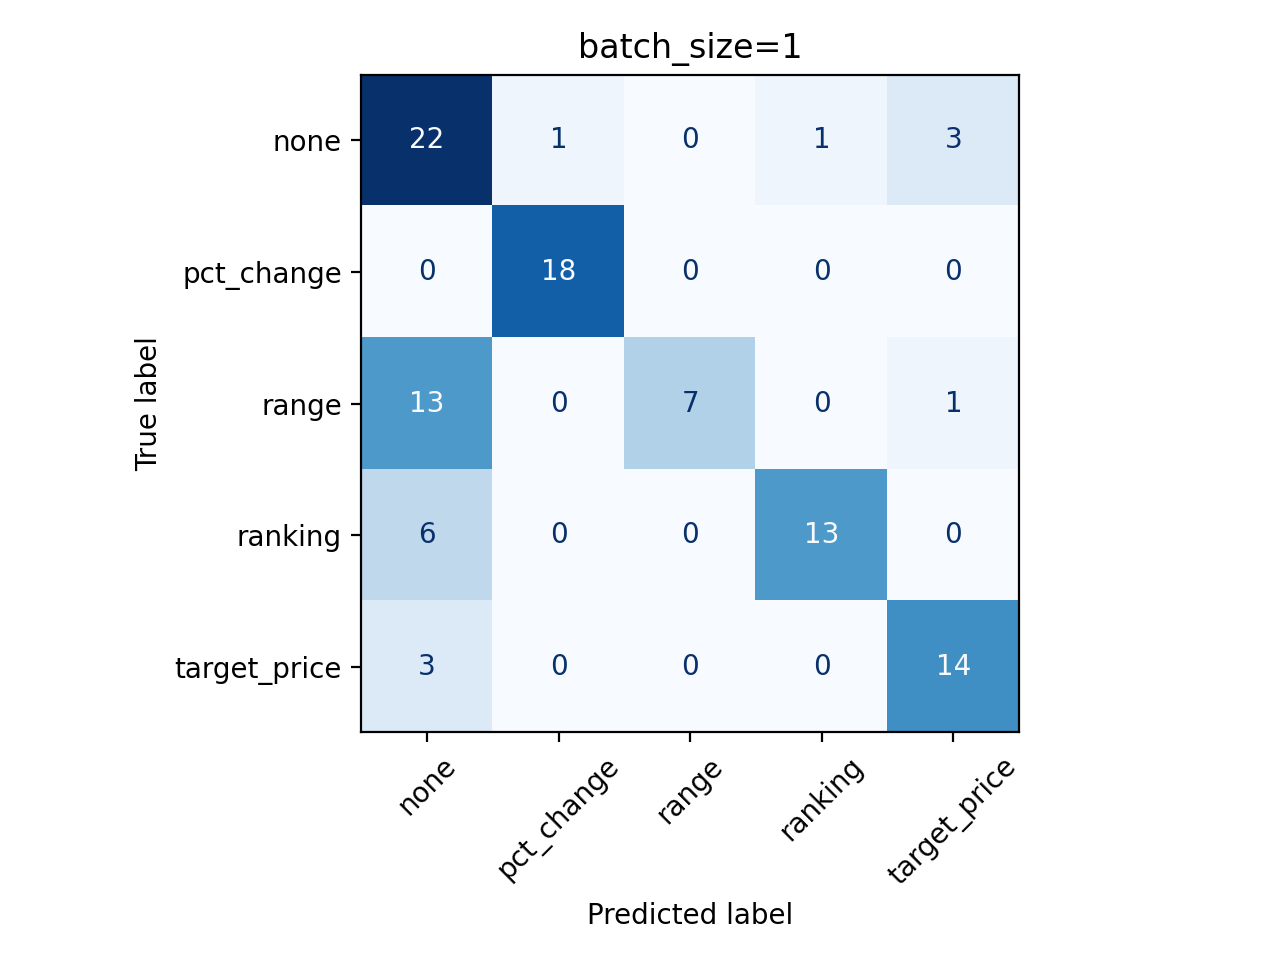
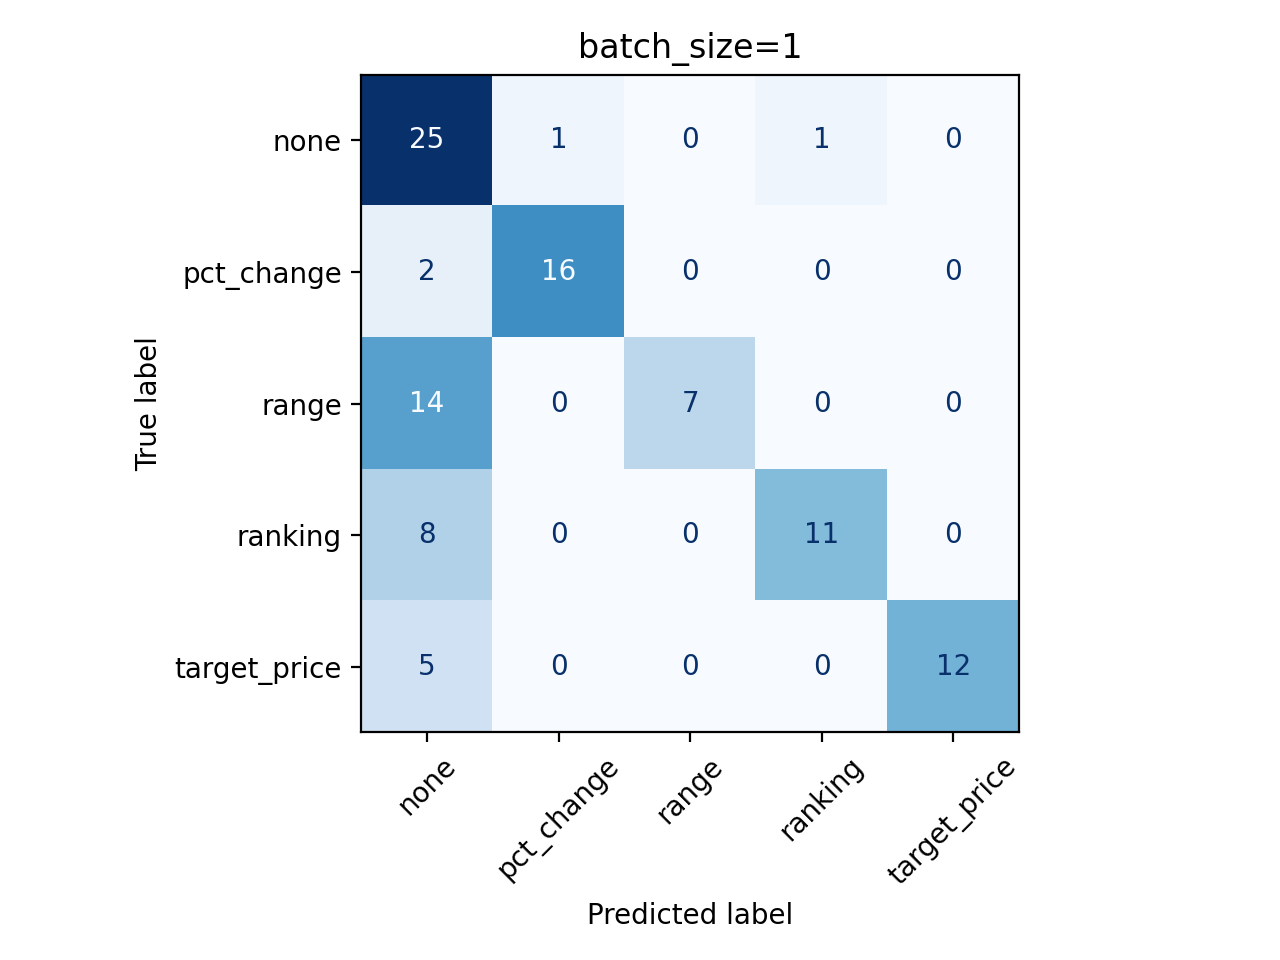
fix prediction/annotation alignment

diff --git a/scripts/calculate_metrics.py b/scripts/calculate_metrics.py
@@ -19,18 +19,18 @@ from src.models import ParsedPredictionResponse
 
 @dataclass
 class AlignedExample:
-    example_id: int
+    prediction_id: str
     prediction: ParsedPredictionResponse
     annotation: ParsedPredictionResponse
 
 
-def load_annotations() -> dict[int, ParsedPredictionResponse]:
+def load_annotations() -> dict[str, ParsedPredictionResponse]:
     with open(config.dataset_file) as f:
         dataset = json.load(f)
 
     annotations = {}
     for entry in dataset:
-        annotations[entry["id"]] = ParsedPredictionResponse.model_validate(
+        annotations[str(entry["id"])] = ParsedPredictionResponse.model_validate(
             {
                 "target_type": entry["target_type"],
                 "extracted_value": entry.get("extracted_value"),
@@ -44,13 +44,13 @@ def load_annotations() -> dict[int, ParsedPredictionResponse]:
 
 
 def fetch_predictions() -> dict[
-    tuple[str, int], list[tuple[int, ParsedPredictionResponse]]
+    tuple[str, int], list[tuple[str, ParsedPredictionResponse]]
 ]:
     connection = duckdb.connect(config.db_file, read_only=True)
     try:
         rows = connection.execute(
             """
-            SELECT run_id, batch_size, example_id, raw_prediction_json
+            SELECT run_id, batch_size, example_id, prediction_id, raw_prediction_json
             FROM prediction_results
             ORDER BY run_id, batch_size, example_id
             """
@@ -59,27 +59,40 @@ def fetch_predictions() -> dict[
         connection.close()
 
     grouped = defaultdict(list)
-    for run_id, batch_size, example_id, raw_prediction_json in rows:
-        payload = json.loads(raw_prediction_json)
+    for run_id, batch_size, example_id, prediction_id, raw_prediction_json in rows:
+        if isinstance(raw_prediction_json, str):
+            payload = json.loads(raw_prediction_json)
+        else:
+            payload = raw_prediction_json
         prediction = ParsedPredictionResponse.model_validate(payload)
-        grouped[(str(run_id), batch_size)].append((int(example_id), prediction))
+        resolved_id = (
+            prediction.id
+            or prediction_id
+            or payload.get("id")
+            or str(example_id)
+        )
+        grouped[(str(run_id), batch_size)].append((str(resolved_id), prediction))
 
     return grouped
 
 
 def align_predictions(
-    predictions: dict[tuple[str, int], list[tuple[int, ParsedPredictionResponse]]],
-    annotations: dict[int, ParsedPredictionResponse],
+    predictions: dict[tuple[str, int], list[tuple[str, ParsedPredictionResponse]]],
+    annotations: dict[str, ParsedPredictionResponse],
 ) -> dict[tuple[str, int], list[AlignedExample]]:
     aligned = {}
     for key, items in predictions.items():
         aligned[key] = []
-        for example_id, prediction in items:
-            annotation = annotations[example_id]
+        for prediction_id, prediction in items:
+            annotation = annotations.get(prediction_id)
+            if annotation is None:
+                raise KeyError(
+                    f"No annotation found for prediction id {prediction_id}"
+                )
 
             aligned[key].append(
                 AlignedExample(
-                    example_id=example_id,
+                    prediction_id=prediction_id,
                     prediction=prediction,
                     annotation=annotation,
                 )

diff --git a/src/database.py b/src/database.py
@@ -1,3 +1,5 @@
+from collections.abc import Mapping
+from typing import Any
 from uuid import UUID
 import duckdb
 from pydantic_ai import RunUsage
@@ -35,6 +37,7 @@ def init_db() -> None:
             example_id INTEGER,
             batch_id int,
             batch_size INTEGER,
+            prediction_id VARCHAR,
             created_at TIMESTAMP DEFAULT now(),
             raw_prediction_json JSON
         );
@@ -91,8 +94,14 @@ def log_predictions(
     example_id: int,
     batch_id: int,
     batch_size: int,
-    raw_prediction_json: ParsedPredictionResponse,
+    raw_prediction_json: ParsedPredictionResponse | Mapping[str, Any],
 ) -> None:
+    if isinstance(raw_prediction_json, ParsedPredictionResponse):
+        payload = raw_prediction_json.model_dump(mode="json")
+    else:
+        payload = dict(raw_prediction_json)
+    prediction_id = payload.get("id")
+
     con = duckdb.connect(config.db_file)
     con.execute(
         """
@@ -101,11 +110,12 @@ def log_predictions(
             example_id,
             batch_id,
             batch_size,
+            prediction_id,
             raw_prediction_json
         )
-        VALUES (?, ?, ?, ?, ?)
+        VALUES (?, ?, ?, ?, ?, ?)
         """,
-        [run_id, example_id, batch_id, batch_size, raw_prediction_json],
+        [run_id, example_id, batch_id, batch_size, prediction_id, payload],
     )
     con.close()
 

diff --git a/src/models.py b/src/models.py
@@ -93,6 +93,9 @@ ExtractedValueType = TargetPrice | PercentageChange | Range | Ranking | None
 class ParsedPredictionResponse(BaseModel):
     """Response returned by the FastAPI endpoint"""
 
+    id: str | None = Field(
+        default=None, description="Unique identifier for the source prediction"
+    )
     target_type: TargetType
     extracted_value: ExtractedValueType
     bear_bull: int
@@ -101,6 +104,9 @@ class ParsedPredictionResponse(BaseModel):
 
 
 class NaturalLanguagePrediction(BaseModel):
+    id: str | None = Field(
+        default=None, description="Unique identifier for the prediction"
+    )
     post_text: str = Field(description="The text of the post")
     post_created_at: datetime = Field(description="Creation date of the post")
 

diff --git a/src/main.py b/src/main.py
@@ -52,7 +52,7 @@ async def parse_prediction(
         latency_ms=elapsed_ms,
         succeeded=True,
     )
-    return to_response(parsed)
+    return to_response(parsed, prediction_id=input.id)
 
 
 @app.post("/parse_prediction_batch", response_model=list[ParsedPredictionResponse])
@@ -94,7 +94,10 @@ async def parse_prediction_batch(
             "Batch parsing returned a different number of predictions than inputs"
         )
 
-    return [to_response(item) for item in parsed_list]
+    return [
+        to_response(parsed_item, prediction_id=source_item.id)
+        for parsed_item, source_item in zip(parsed_list, request.items)
+    ]
 
 
 def main() -> None:

diff --git a/scripts/generate_predictions.py b/scripts/generate_predictions.py
@@ -43,6 +43,7 @@ class DatasetEntry(TypedDict):
 
 
 class APIResponse(TypedDict):
+    id: str | None
     target_type: TargetType
     extracted_value: ExtractedValueType
     bear_bull: int
@@ -52,7 +53,11 @@ class APIResponse(TypedDict):
 
 def format_api_input(batch: list[DatasetEntry]) -> list[dict]:
     return [
-        {"post_text": item["post_text"], "post_created_at": item["post_created_at"]}
+        {
+            "id": str(item["id"]),
+            "post_text": item["post_text"],
+            "post_created_at": item["post_created_at"],
+        }
         for item in batch
     ]
 

diff --git a/src/helpers.py b/src/helpers.py
@@ -46,8 +46,11 @@ def infer_target_type(parsed: ParsedPrediction) -> TargetType:
     return "none"
 
 
-def to_response(parsed: ParsedPrediction) -> ParsedPredictionResponse:
+def to_response(
+    parsed: ParsedPrediction, prediction_id: str | None = None
+) -> ParsedPredictionResponse:
     return ParsedPredictionResponse(
+        id=str(prediction_id) if prediction_id is not None else None,
         target_type=infer_target_type(parsed),
         extracted_value=parsed.extracted_value,
         bear_bull=parsed.bear_bull,

diff --git a/report/relatorio.md b/report/relatorio.md
@@ -6,14 +6,14 @@ Os dados abaixo são referentes são referentes à avaliação do agente de pars
 
 | Métrica | Batch size 1 | Batch size 16 |
 | --- | --- | --- |
-| Acurácia (`target_type`) | 77,45% | 20,59% |
-| Precisão (`target_type`) | 85,30% | 20.54% |
-| Recall (`target_type`) | 77,79% | 20.50% |
-| F1 (`target_type`) | 78,88% | 20.35% |
-| `timeframe` (exact match) | 87,25% | 57.84% |
-| `extracted_value` (exact match) | 76,47% | 7.84% |
-| Spearman (`bear_bull`) | 0,91 | 0,11 |
-| Sucesso | 100% | 100,0% |
+| Acurácia (`target_type`) | 69,61% | 92,16% |
+| Precisão (`target_type`) | 86,42% | 92,28% |
+| Recall (`target_type`) | 68,66% | 93,55% |
+| F1 (`target_type`) | 71,38% | 92,32% |
+| `timeframe` (exact match) | 87,25% | 90,20% |
+| `extracted_value` (exact match) | 69,61% | 88,24% |
+| Spearman (`bear_bull`) | 0,91 | 0,87 |
+| Sucesso | 100% | 100% |
 
 
 ### Matrizes de Confusão (`target_type`)
@@ -27,7 +27,8 @@ Os dados abaixo são referentes são referentes à avaliação do agente de pars
 
 - As métricas de exact match de `timeframe` e `extracted_value` medem a quantidade de vezes em que **todos** os campos dessas extrações são iguais às referências. Por exemplo, para o `timeframe` contar como um acerto, é preciso que `explicit`, `start` e `end` estejam corretos ao mesmo tempo.
 - Se o modelo errar a classe, não é possível acertar o `extracted_value`
-- O agente com batch_size=16 se saiu consideravelmente pior do que o com batch_size=1, o que era esperado. É muito mais difícil classificar 16 amostras ao mesmo tempo do que 1.
+- O agente com batch_size=16 se saiu consideravelmente melhor do que o com batch_size=1, o que considero inesperado, já que com um batch size maior, o agente deve classificar mais amostras ao mesmo tempo.
+- O sucesso do agente com batch size maior talvez se deva ao maior thinking budget concedido: 4000 contra 500 do agente com batch size 1. Dei um thinking budget maior para o caso com mais inputs para compensar a entrada maior.
 - Sucesso 100% quer dizer que o modelo não errou nenhuma vez o modelo (tipagem) de saída.
 
 ## Relatório de Custos
@@ -51,3 +52,4 @@ Valores de custo consideram o preço atual do modelo utilizado, o **gemini-2.5-f
 ### Observações
 
 - A latência média alta pode ser explicada pelo rate limiting da API do Gemini. Eu estou usando uma chave gratuita, o que implica em limites maiores. Cada vez que eu era limitado, esperava 45 segundos para tentar de novo. Considere o p50 como uma métrica mais realista.
+- As estatistícas para batch_size=16 talvez pudessem ser normalizadas pelo tamanho do batch, para encontrar um custo por entrada, e a comparação ser mais justa contra o batch_size=1.
